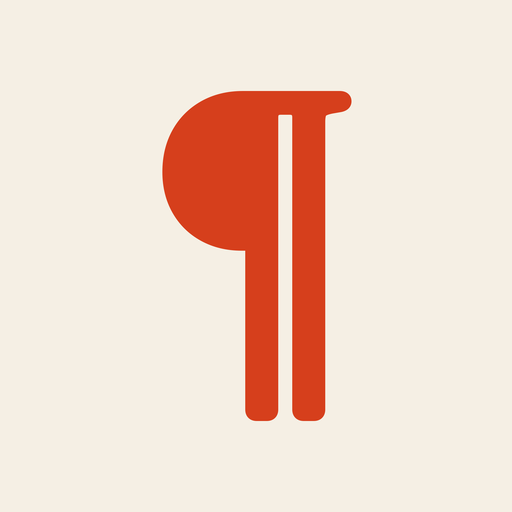
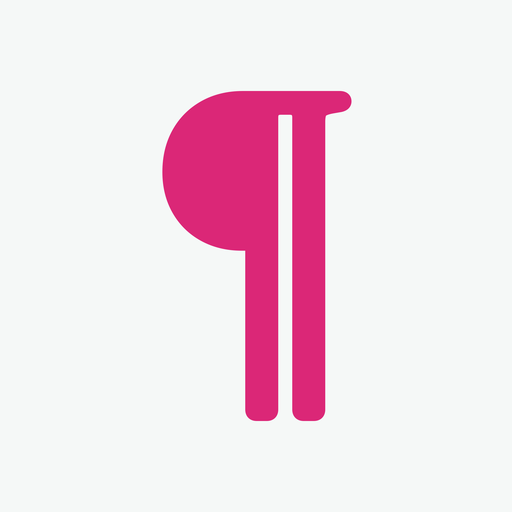
Retheme: cool off-white, teal-950 text, teal and pink accents, Dracula code; house look as default; per-post accents
Claude-Session: https://claude.ai/code/session_01GvS65DktzMnjYSBYmTqKpx

Changed region(s): [[0.3125, 0.1562, 0.6875, 0.8438]]

diff --git a/app/globals.css b/app/globals.css
@@ -1,18 +1,22 @@
-/* Design tokens — shared by the public site and the editor. Owned by the lead; do not edit.
-   Direction: a printed pamphlet. Warm paper, near-black ink, one vermilion accent,
-   hairline rules instead of cards and shadows. Serif for reading, grotesk for controls. */
+/* Design tokens — shared by the public site and the editor.
+   Direction: an editorial journal with a personal signature. A cool, barely-there
+   off-white page; text in the darkest teal instead of black; teal for structure
+   (links, primary actions) and pink for the sparks (marks, selection, pull rules).
+   Light only, by choice: the expression lives in the accents and in the code
+   blocks (Dracula), not in a dark developer skin. Hairline rules, no cards or shadows. */
 :root {
-  --paper: #f5efe4;
-  --paper-2: #ece4d5; /* raised / inset surfaces */
-  --ink: #1b1712;
-  --ink-2: #5d554a; /* secondary text */
-  --ink-3: #8f8677; /* tertiary, placeholders */
-  --rule: #d6ccb9; /* hairlines */
-  --accent: #d63f1c; /* vermilion */
-  --accent-ink: #fff8ef;
-  --ok: #2f6b3f;
-  --code-bg: #1b1712;
-  --code-ink: #efe7d8;
+  --paper: #f5f8f7; /* subtle cool off-white */
+  --paper-2: #e8efed; /* raised / inset surfaces */
+  --ink: #042f2e; /* teal 950 */
+  --ink-2: #3b5b59; /* secondary text */
+  --ink-3: #7b9492; /* tertiary, placeholders */
+  --rule: #cddbd8; /* hairlines */
+  --accent: #0f766e; /* teal 700 — links, primary actions */
+  --accent-2: #db2777; /* pink 600 — marks, selection, pull rules */
+  --accent-ink: #f5f8f7;
+  --ok: #15803d;
+  --code-bg: #282a36; /* Dracula */
+  --code-ink: #f8f8f2;
 
   --font-display: "Instrument Serif", "Iowan Old Style", Georgia, serif;
   --font-body: "Newsreader Variable", "Iowan Old Style", Georgia, serif;
@@ -28,22 +32,6 @@
   --safe-bottom: env(safe-area-inset-bottom, 0px);
 }
 
-@media (prefers-color-scheme: dark) {
-  :root {
-    --paper: #16130f;
-    --paper-2: #211d17;
-    --ink: #efe7d8;
-    --ink-2: #b0a696;
-    --ink-3: #7b7265;
-    --rule: #352f26;
-    --accent: #f0623c;
-    --accent-ink: #16130f;
-    --ok: #7fbf8f;
-    --code-bg: #0e0c09;
-    --code-ink: #efe7d8;
-  }
-}
-
 *,
 *::before,
 *::after {
@@ -52,7 +40,7 @@
 
 html {
   -webkit-text-size-adjust: 100%;
-  color-scheme: light dark;
+  color-scheme: light;
 }
 
 body {
@@ -81,7 +69,7 @@ select {
 }
 
 ::selection {
-  background: var(--accent);
+  background: var(--accent-2);
   color: var(--accent-ink);
 }
 

diff --git a/app/(site)/posts/[slug]/page.tsx b/app/(site)/posts/[slug]/page.tsx
@@ -4,6 +4,7 @@ import { notFound } from "next/navigation";
 import { getStore } from "@/lib/store";
 import { Doc } from "@/components/render/Doc";
 import { effectiveLook } from "@/lib/look";
+import type { Look } from "@/lib/types";
 import { readingMinutes } from "@/lib/text";
 import { formatDate } from "../../format-date";
 import styles from "../../site.module.css";
@@ -32,14 +33,25 @@ export async function generateMetadata({ params }: Props): Promise<Metadata> {
   };
 }
 
+/**
+ * Each post wears its own look's accents: the first colour drives links, the
+ * second (if the look has one) the marks and pull rules. Page and text colours
+ * stay the site's, so every post reads the same.
+ */
+function accentVars(look: Look | null): React.CSSProperties {
+  if (!look) return {};
+  return { "--accent": look.palette.accent, "--accent-2": look.palette.extra[0] ?? look.palette.accent } as React.CSSProperties;
+}
+
 export default async function PostPage({ params }: Props) {
   const { slug } = await params;
   const store = await getStore();
   const [post, settings] = await Promise.all([store.getPublicBySlug(slug), store.getSettings()]);
   if (!post) notFound();
   const when = post.publishAt ?? post.createdAt;
+  const look = effectiveLook(post.look, settings.defaultLook);
   return (
-    <article className={styles.article}>
+    <article className={styles.article} style={accentVars(look)}>
       <Link href="/" className={`${styles.back} ${styles.label}`}>
         All posts
       </Link>
@@ -47,7 +59,7 @@ export default async function PostPage({ params }: Props) {
       <p className={`${styles.meta} ${styles.label}`}>
         <time dateTime={when}>{formatDate(when)}</time> · {readingMinutes(post.content)} min read
       </p>
-      <Doc doc={post.content} look={effectiveLook(post.look, settings.defaultLook)} />
+      <Doc doc={post.content} look={look} />
     </article>
   );
 }

diff --git a/lib/look.ts b/lib/look.ts
@@ -4,17 +4,19 @@ import type { FontKind, Look, LookStamp, MotionTheme } from "@/lib/types";
 
 /** Shiki themes a look may use for code. First dark, then light. */
 export const CODE_THEMES = [
+  "dracula",
+  "night-owl",
+  "tokyo-night",
   "vitesse-dark",
   "github-dark",
   "one-dark-pro",
   "nord",
-  "night-owl",
   "vitesse-light",
   "github-light",
   "solarized-light",
 ] as const;
 export type CodeTheme = (typeof CODE_THEMES)[number];
-export const DEFAULT_CODE_THEME: CodeTheme = "vitesse-dark";
+export const DEFAULT_CODE_THEME: CodeTheme = "dracula";
 
 export function codeThemeOf(look: Look | null | undefined): CodeTheme {
   const t = look?.codeTheme;
@@ -29,11 +31,11 @@ export const FONT_STACKS: Record<FontKind, string> = {
 
 /** The blog's own palette: what animations use when a post has no look. */
 export const DEFAULT_MOTION_THEME: MotionTheme = {
-  bg: "#f5efe4",
-  ink: "#1b1712",
-  accent: "#d63f1c",
-  muted: "#d6ccb9",
-  extra: [],
+  bg: "#f5f8f7",
+  ink: "#042f2e",
+  accent: "#0f766e",
+  muted: "#cddbd8",
+  extra: ["#db2777"],
   titleFont: FONT_STACKS.serif,
   bodyFont: FONT_STACKS.serif,
   monoFont: FONT_STACKS.mono,

diff --git a/app/(site)/site.module.css b/app/(site)/site.module.css
@@ -19,6 +19,25 @@
   padding-bottom: 1.25rem;
   border-bottom: 1px solid var(--rule);
   margin-bottom: 2.5rem;
+  position: relative;
+}
+/* The signature: a short pink tab and a teal one sitting on the masthead rule. */
+.masthead::before,
+.masthead::after {
+  content: "";
+  position: absolute;
+  bottom: -2px;
+  height: 3px;
+}
+.masthead::before {
+  left: 0;
+  width: 2.75rem;
+  background: var(--accent-2);
+}
+.masthead::after {
+  left: 2.75rem;
+  width: 1.1rem;
+  background: var(--accent);
 }
 .title {
   display: inline-block;
@@ -92,7 +111,7 @@
   font-size: 0.72rem;
   letter-spacing: 0.08em;
   text-transform: uppercase;
-  color: var(--ink-2);
+  color: var(--accent);
   padding-top: 0.55rem;
 }
 .entryTitle {
@@ -126,7 +145,7 @@
 }
 .empty::before {
   content: "\00b6\00a0";
-  color: var(--accent);
+  color: var(--accent-2);
 }
 @media (min-width: 48rem) {
   .shell {
@@ -177,7 +196,7 @@
 }
 .meta::before {
   content: "\00b6\00a0";
-  color: var(--accent);
+  color: var(--accent-2);
   font-family: var(--font-display);
   font-size: 1.1rem;
   letter-spacing: 0;

diff --git a/lib/types.ts b/lib/types.ts
@@ -50,7 +50,18 @@ export const DEFAULT_SETTINGS: Settings = {
   bio: "",
   voiceNotes: "",
   siteUrl: "",
-  defaultLook: null,
+  defaultLook: {
+    id: "house",
+    name: "House: teal and pink",
+    version: 1,
+    palette: { bg: "#f5f8f7", ink: "#042f2e", accent: "#0f766e", muted: "#cddbd8", extra: ["#db2777"] },
+    typography: { title: "serif", body: "serif" },
+    illustration:
+      "Clean editorial illustration: flat shapes with a few fine lines, generous empty space, soft even light, no gradients or 3D gloss, no stock-photo look.",
+    motion: { pace: "calm", notes: "Unhurried, confident moves; one idea at a time." },
+    codeTheme: "dracula",
+    mood: ["clear", "confident", "warm"],
+  },
   savedLooks: [],
 };
 

diff --git a/app/api/ai/image/route.ts b/app/api/ai/image/route.ts
@@ -20,10 +20,10 @@ const ASPECTS: Aspect[] = ["16:9", "1:1", "4:5", "3:2"];
 
 function mockSvg(prompt: string, aspect: Aspect, look: Look | null): string {
   // With a look, draw with its palette so the look is visible in a browser test.
-  const bg = look?.palette.bg ?? "#f5efe4";
-  const ink = look?.palette.ink ?? "#1b1712";
-  const accent = look?.palette.accent ?? "#d63f1c";
-  const muted = look?.palette.muted ?? "#d6ccb9";
+  const bg = look?.palette.bg ?? "#f5f8f7";
+  const ink = look?.palette.ink ?? "#042f2e";
+  const accent = look?.palette.accent ?? "#0f766e";
+  const muted = look?.palette.muted ?? "#cddbd8";
   const [aw, ah] = aspect.split(":").map(Number);
   const w = 1200;
   const h = Math.round((w * ah) / aw);

diff --git a/lib/store/postgres.ts b/lib/store/postgres.ts
@@ -155,7 +155,7 @@ export function createPostgresStore(url: string): Store {
     async getSettings() {
       const rows = await q(`select value from settings where key = 'site'`);
       const stored = (rows[0]?.value ?? {}) as Partial<Settings>;
-      return { ...DEFAULT_SETTINGS, ...stored, defaultLook: stored.defaultLook ?? null, savedLooks: Array.isArray(stored.savedLooks) ? stored.savedLooks : [] };
+      return { ...DEFAULT_SETTINGS, ...stored, defaultLook: stored.defaultLook === undefined ? DEFAULT_SETTINGS.defaultLook : stored.defaultLook, savedLooks: Array.isArray(stored.savedLooks) ? stored.savedLooks : [] };
     },
 
     async updateSettings(patch) {

diff --git a/motion-frame/main.tsx b/motion-frame/main.tsx
@@ -101,7 +101,7 @@ function Scrub({ player, entry }: { player: PlayerRef | null; entry: Entry }) {
         style={{ position: "absolute", left: 0, right: 0, bottom: 0, height: 14, cursor: "pointer", touchAction: "none" }}
       >
         <div style={{ position: "absolute", left: 0, right: 0, bottom: 0, height: 3, background: "rgba(0,0,0,.18)" }}>
-          <div style={{ height: "100%", width: `${(frame / Math.max(1, total - 1)) * 100}%`, background: "#d6452b" }} />
+          <div style={{ height: "100%", width: `${(frame / Math.max(1, total - 1)) * 100}%`, background: "#db2777" }} />
         </div>
       </div>
     </>

diff --git a/components/editor/highlight.ts b/components/editor/highlight.ts
@@ -1,8 +1,9 @@
 // Client-side syntax highlighting. shiki is loaded lazily (dynamic import) with the
 // JavaScript regex engine (no wasm), and grammars are loaded one by one on demand.
 import type { Highlighter } from "shiki";
+import { DEFAULT_CODE_THEME } from "@/lib/look";
 
-const THEME = "vitesse-dark"; // default; matches lib/highlight.ts (server render)
+const THEME: string = DEFAULT_CODE_THEME; // matches lib/highlight.ts (server render)
 
 let highlighter: Promise<Highlighter> | null = null;
 const themeLoads = new Map<string, Promise<boolean>>();

diff --git a/app/manifest.ts b/app/manifest.ts
@@ -8,8 +8,8 @@ export default function manifest(): MetadataRoute.Manifest {
     start_url: "/write",
     scope: "/",
     display: "standalone",
-    background_color: "#f5efe4",
-    theme_color: "#f5efe4",
+    background_color: "#f5f8f7",
+    theme_color: "#f5f8f7",
     icons: [
       { src: "/icon-192.png", sizes: "192x192", type: "image/png", purpose: "any" },
       { src: "/icon-512.png", sizes: "512x512", type: "image/png", purpose: "any" },

diff --git a/lib/store/file.ts b/lib/store/file.ts
@@ -20,7 +20,8 @@ function normSettings(s: Partial<Settings>): Settings {
   return {
     ...DEFAULT_SETTINGS,
     ...s,
-    defaultLook: s.defaultLook ?? null,
+    // never set → the built-in house look; explicitly removed (null) stays removed
+    defaultLook: s.defaultLook === undefined ? DEFAULT_SETTINGS.defaultLook : s.defaultLook,
     savedLooks: Array.isArray(s.savedLooks) ? s.savedLooks : [],
   };
 }

diff --git a/app/layout.tsx b/app/layout.tsx
@@ -17,10 +17,7 @@ export const viewport: Viewport = {
   width: "device-width",
   initialScale: 1,
   viewportFit: "cover",
-  themeColor: [
-    { media: "(prefers-color-scheme: light)", color: "#f5efe4" },
-    { media: "(prefers-color-scheme: dark)", color: "#16130f" },
-  ],
+  themeColor: "#f5f8f7",
 };
 
 export default function RootLayout({ children }: { children: React.ReactNode }) {
